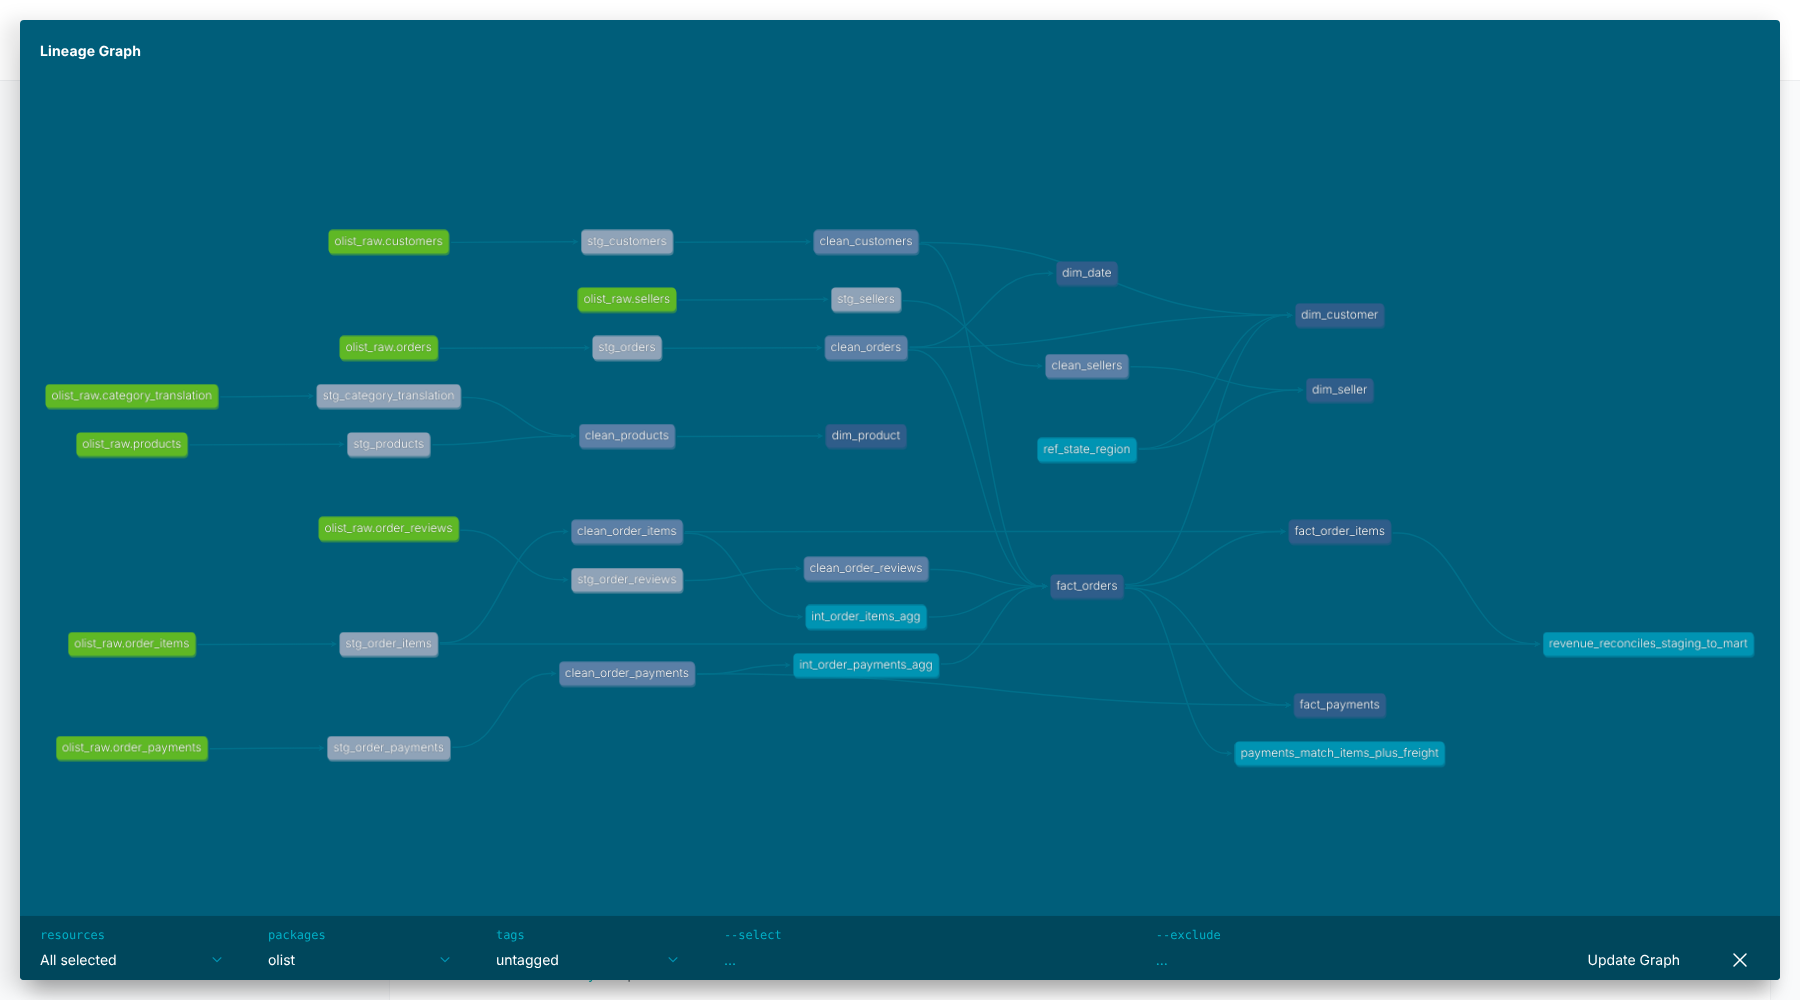
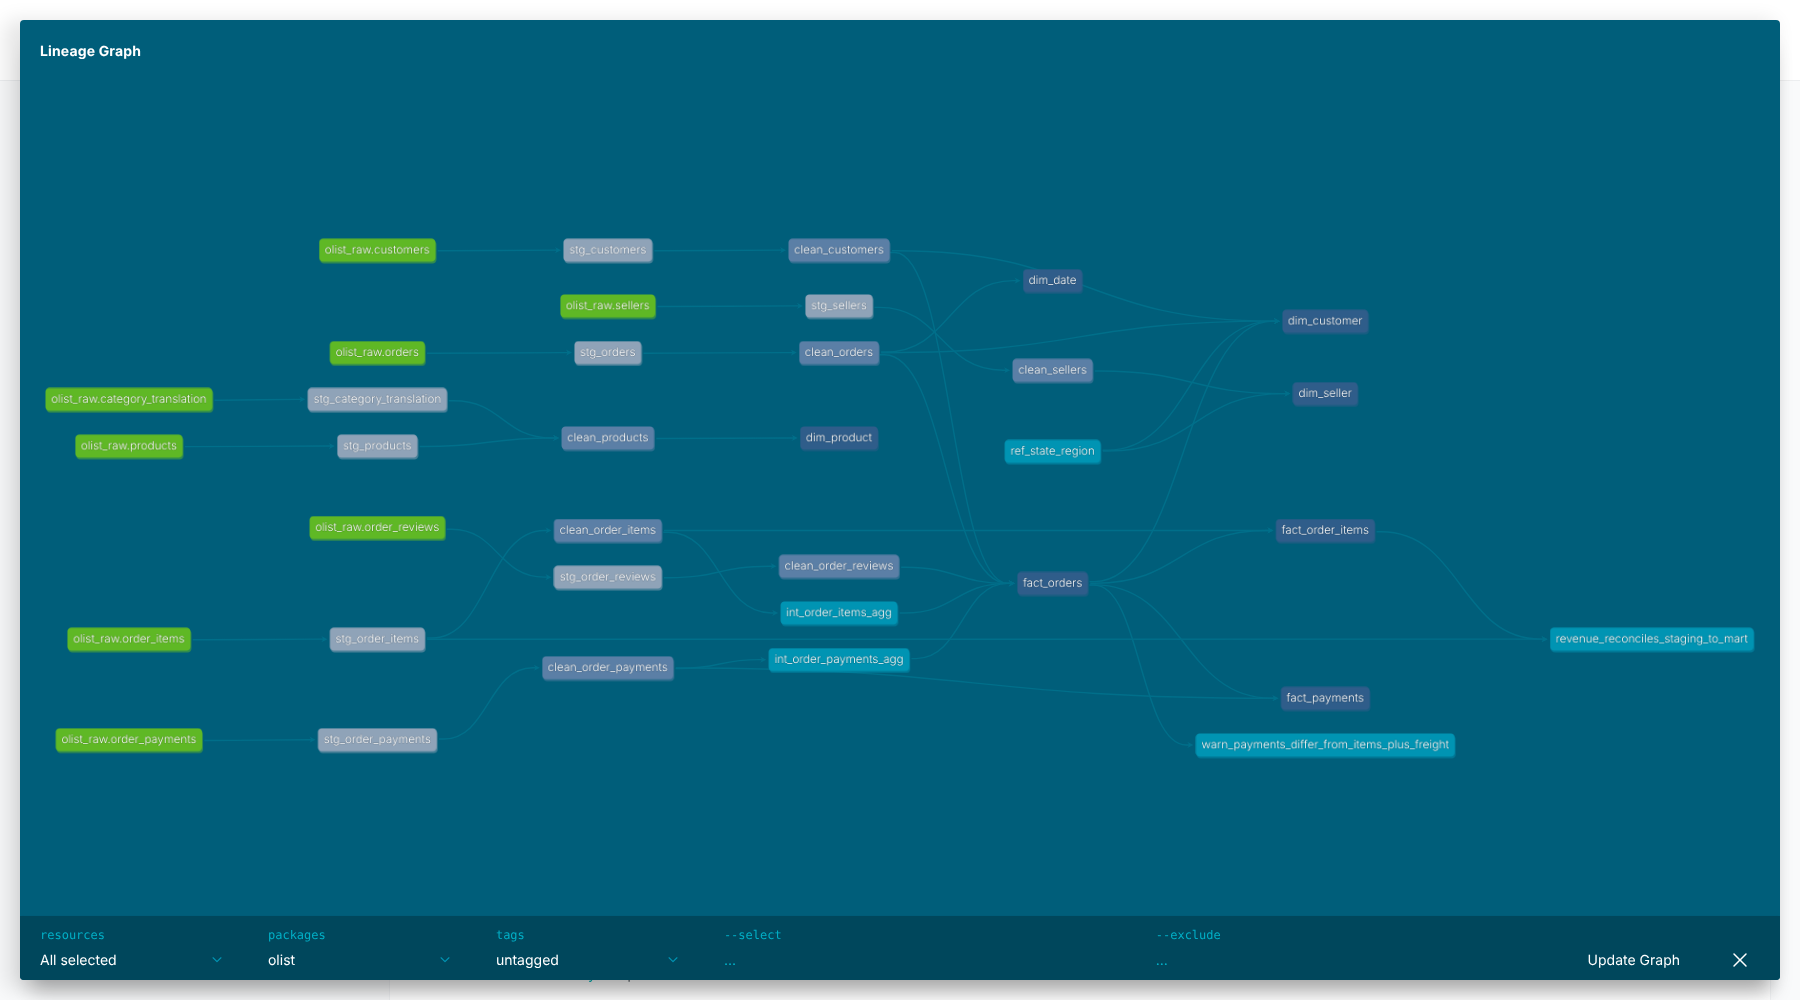
Update README for dbt, impact study, forecast, memo and CI with real results

diff --git a/README.md b/README.md
@@ -1,22 +1,23 @@
-# SQL Business Analytics: Olist e-commerce star schema, KPI report and dashboard
+# SQL Business Analytics: Olist e-commerce on dbt + DuckDB, KPI report, impact study and forecast
 
-A DuckDB star schema built from raw marketplace data with layered SQL (staging, clean, mart).
-SQL data-quality tests run on it, 15 analytical queries answer business questions, and a KPI
-report, a Streamlit dashboard and a Power BI build guide sit on top of the same model.
+A dbt project (dbt-core + dbt-duckdb) turns raw marketplace CSVs into a tested star schema.
+15 analytical SQL queries, a KPI report, a Streamlit dashboard and a Power BI guide sit on top of it,
+plus two analyses that go beyond descriptive reporting (the effect of late delivery on review score,
+and a backtested weekly demand forecast) and a one-page memo for a non-technical manager.
 
 ![Dashboard](reports/figures/dashboard_screenshot.png)
 
+**Start here:** [stakeholder memo](reports/STAKEHOLDER_MEMO.md) (one page) |
+[impact study and forecast](reports/ANALYSIS_DELAY_AND_FORECAST.md) |
+[executive KPI summary](reports/EXECUTIVE_SUMMARY.md) | [query catalogue](docs/QUERIES.md) |
+[data-quality tests](reports/data_quality.md)
+
 ## Business problem
 
-A marketplace management team wants a monthly view of the business. They need to know where
-revenue comes from, whether growth is healthy, whether customers come back, and what drives bad
-reviews. In practice that is the daily work of a reporting / BI analyst:
-
-1. turn transactional tables into a **clean, documented and tested data model**;
-2. answer recurring business questions with **reproducible SQL** (growth, retention, segmentation,
-   service levels, concentration);
-3. publish the KPIs in a **report and an interactive dashboard**, with definitions that the
-   finance and operations teams can reconcile.
+A marketplace management team wants to know where revenue comes from, whether growth is healthy,
+whether customers come back, what drives bad reviews and how many orders to plan for. That is the
+work of a reporting / BI analyst: a **tested, documented data model**, **reproducible SQL**, a
+**report and dashboard** with reconcilable definitions, and **analysis a manager can act on**.
 
 ## Data
 
@@ -35,15 +36,25 @@ translation. The geolocation table is not used.
 
 ## Approach
 
-### 1. Layered ETL in SQL (`sql/`)
+### 1. Layered ETL as a dbt project (`olist_dbt/`)
 
-| Layer | File | What it does |
+dbt-duckdb installs from PyPI and works here, so the plain-SQL ETL was ported to dbt and removed.
+The dbt-built mart is identical, row for row, to the previous SQL build (all 7 tables compared).
+
+| Layer | dbt models | What it does |
 |---|---|---|
-| Staging | `sql/staging/01_staging.sql` | One typed table per CSV with explicit column types (zip codes kept as text, money as `DECIMAL`) |
-| Clean | `sql/clean/02_clean.sql` | Trims and normalises text, deduplicates on business keys with `QUALIFY ROW_NUMBER()`, keeps only the latest review per order, translates categories (and fills 2 missing translations), maps states to IBGE macro-regions |
-| Mart | `sql/mart/03_mart.sql` | Star schema: `fact_orders` (order grain), `fact_order_items` (line grain), `fact_payments`, and `dim_date`, `dim_customer`, `dim_product`, `dim_seller` |
+| Sources | `models/staging/_sources.yml` | The 8 CSVs, read in place by DuckDB (`read_csv`, all text). Path set by the `raw_dir` var |
+| Staging | `stg_*` (8) | Explicit cast of every column (zip codes kept as text, money as `DECIMAL(12,2)`) |
+| Clean | `clean_*` (7) + seed `ref_state_region` | Trims and normalises text, deduplicates on business keys with `QUALIFY ROW_NUMBER()`, keeps the latest review per order, translates categories (2 missing translations filled), maps states to IBGE macro-regions |
+| Intermediate | `int_order_*_agg` (ephemeral) | Order totals from items and payments |
+| Mart | `fact_orders`, `fact_order_items`, `fact_payments`, `dim_date`, `dim_customer`, `dim_product`, `dim_seller` | Star schema with the business rules |
 
-The ETL is written in SQL and Python only runs the files in order (`src/build_db.py`).
+`python -m src.pipeline` calls `dbt build` through dbt's Python API (`src/dbt_runner.py`), so models
+and tests run in DAG order and a failing error-level test stops everything downstream of it.
+`make docs` runs `dbt docs generate` and screenshots the lineage graph with Playwright:
+
+![dbt lineage](reports/figures/dbt_lineage.png)
+
 Design choices:
 
 - **Customer = `customer_unique_id`, not `customer_id`.** Olist issues a new `customer_id` for every order.
@@ -56,19 +67,22 @@ Design choices:
   Every query, the dashboard and the Power BI measures reuse these columns.
 - **Revenue = item price, freight excluded** (merchandise revenue in BRL). Freight is reported separately.
 
-### 2. Data-quality tests in SQL (`sql/checks/data_quality.sql`)
+### 2. Data-quality tests in dbt
 
-There are 31 checks. Each one returns the number of failing rows. They cover row-count and
-revenue reconciliation from staging to mart, primary-key uniqueness, not-null keys, referential
-integrity from facts to dimensions, value ranges and domains, plus known source issues logged as
-warnings. The pipeline stops if an `error`-level check fails. Result on the full data
-([full table](reports/data_quality.md)): **24 pass, 7 warnings, 0 errors**.
+There are 52 dbt tests: built-in generic tests (`unique`, `not_null`, `relationships`,
+`accepted_values`), three custom generic tests written for this project (`unique_combination`
+for composite keys, `equal_row_count` for staging-to-mart reconciliation, `expression_is_true`
+for ranges and rules) and singular tests (revenue reconciled to the cent). Known source issues are
+tests with `severity: warn`, so they are reported but do not block the build.
+`src/quality.py` turns dbt's `run_results.json` into [reports/data_quality.md](reports/data_quality.md).
+Result on the full data: **45 pass, 7 warnings, 0 errors**.
 
 | Known source issue (warning) | Rows | Treatment |
 |---|---:|---|
 | Orders without any item line | 775 | not a valid sale (mostly `unavailable`/`canceled`) |
-| Orders with more than one review | 547 | latest answered review kept |
+| Valid-sale orders without a review | 732 | excluded from review KPIs |
 | Products without category | 610 | category `unknown`, kept in totals |
+| Orders with more than one review | 547 | latest answered review kept |
 | Payments differ from items + freight by > 1 BRL | 312 | payments not used for revenue |
 | Handed to carrier before purchase timestamp | 166 | left as is; only affects the seller late-shipping flag |
 | Delivered status without delivery timestamp | 8 | counted as not delivered in SLA KPIs |
@@ -98,7 +112,22 @@ always the real output.
 | 14 | Daily revenue anomaly flags | trailing 28-day mean/sd excluding the current day, z-score |
 | 15 | Seller late-shipping scorecard | seller KPIs, volume-weighted averages |
 
-### 4. Reporting layer
+### 4. Beyond descriptive: impact study and forecast (`src/causal.py`, `src/forecast.py`)
+
+- **Effect of a late delivery on the review score.** Late orders are not a random sample (more
+  Northeast, more Black Friday, different sellers), so the raw gap is compared with three adjusted
+  estimates: OLS with pre-purchase controls (basket, freight, promised lead time, payment, customer
+  and seller state, category, month), the same with **seller fixed effects** (late vs on-time
+  parcels of the same seller, by within-seller demeaning), and **coarsened exact matching** (ATT).
+  Standard errors are clustered by seller. Lead time is not a control: it is how the delay
+  happens. The study is observational and says so.
+- **Weekly demand forecast.** Naive, 4-week mean, drift, SES and damped-trend ETS, scored by a
+  rolling-origin backtest (26 origins x 1-4 weeks ahead, refit at each origin on past data only).
+  The 80% interval of the forward forecast comes from the empirical backtest errors.
+- Both run on the full data in the pipeline. The estimators are unit-tested on seeded synthetic data
+  with a known effect (seller fixed effects must recover it, the raw gap must not).
+
+### 5. Reporting layer
 
 - `src/report.py` uses pandas and matplotlib to build six charts and an
   [executive summary](reports/EXECUTIVE_SUMMARY.md). The summary text is filled from the query
@@ -106,6 +135,8 @@ always the real output.
 - `app.py` is a **Streamlit dashboard** that reads DuckDB directly, with filters for month range,
   region and category. Its parameterised SQL lives in `src/dashboard.py` and is unit-tested.
   `scripts/screenshot_dashboard.py` captures it headless with Playwright (screenshot above).
+- `src/memo.py` writes the [stakeholder memo](reports/STAKEHOLDER_MEMO.md): 3 findings and 3
+  recommendations in plain language, every number filled from the results.
 - `powerbi/POWERBI_GUIDE.md` is a step-by-step guide to rebuild the same model in Power BI Desktop:
   import, relationships, 15 DAX measures, page layout, and a reconciliation table generated from SQL
   ([reports/powerbi_validation.md](reports/powerbi_validation.md)). `python -m src.export_powerbi`
@@ -139,8 +170,6 @@ Orders 4-7 days late average 2.10, with 68% of their reviews at 1-2 stars. Late 
 reviewed deliveries but **32.6% of all negative reviews** (query 06). On-time delivery ranges from
 95.9% (PR) to 78.5% (AL), and 8 of the 9 worst states are in the Northeast (query 07).
 
-![Delivery delay vs review](reports/figures/03_delivery_delay_vs_review.png)
-
 **3. Customers rarely come back.** In every monthly cohort fewer than 1% of new customers buy again in
 any later month (query 03). 12-month revenue per new customer is BRL 131-162, and only 3-5% of it
 comes from repeat orders (query 05). In the RFM segmentation, "At risk, high-value" customers
@@ -160,26 +189,73 @@ average a review of 3.78, against 4.15 for sellers late on less than 5% (query 1
 - Northeast customers spend more per order (BRL 165 vs 131 in the Southeast) but wait 20.0 vs 10.7 days (query 13).
 - The anomaly detector flags 7 spike days. Black Friday 2017-11-24 is 6.3 times the trailing 28-day mean (query 14).
 
+**6. A late delivery costs about 2 stars, even comparing like with like** ([full study](reports/ANALYSIS_DELAY_AND_FORECAST.md)).
+95,560 delivered and reviewed orders, 6.7% of them late. Effect of being late:
+
+| Method | Review score (stars) | Negative review (1-2 stars), pp |
+|---|---:|---:|
+| 1. Raw difference | -2.02 [-2.07, -1.97] | +53.2 [51.8, 54.5] |
+| 2. OLS + controls | -1.98 [-2.03, -1.93] | +52.6 [51.2, 54.0] |
+| 3. OLS + controls + seller fixed effects | -1.94 [-1.99, -1.89] | +51.7 [50.3, 53.1] |
+| 4. Coarsened exact matching (ATT, 84.6% of late orders matched) | -1.97 [-2.03, -1.91] | +52.2 [50.6, 53.7] |
+
+95% CIs, seller-clustered. The adjustments move the gap by less than 0.1 star, so the observed
+differences between late and on-time orders explain little of it. The effect grows with the delay
+(-0.84 stars at 1-3 days late, -2.42 at 8-14 days). 83.6% of late orders were reviewed *before*
+the parcel arrived (3.1% of the others), because the survey goes out at the promised date.
+
+![Delay effect](reports/figures/07_delay_effect_on_review.png)
+
+**7. Weekly demand is on a plateau; a 4-week mean beats the naive forecast by 13%.** Rolling-origin
+backtest, 26 origins x 1-4 weeks ahead, MAE in orders per week:
+
+| Model | MAE | MAPE % | MAE vs naive | MAE h=1 | MAE h=4 |
+|---|---:|---:|---:|---:|---:|
+| 4-week mean | 232 | 16.5 | 0.87 | 193 | 263 |
+| Naive (last week); SES and damped ETS are identical to 1 decimal of MAPE | 268 | 19.2 | 1.00 | 170 | 324 |
+| Drift | 269 | 19.7 | 1.00 | 172 | 329 |
+
+The ETS models estimate a level smoothing weight of 1.00 (the 2017 ramp-up looks like permanent
+level shifts), so they reduce to the naive forecast. Naive is still best one week ahead.
+Forecast for the 4 weeks after 13 Aug 2018: 1,869 orders/week, 80% empirical interval 1,415 to
+2,491 (not checkable: the extract ends).
+
+![Forecast](reports/figures/08_weekly_orders_forecast.png)
+
 ## Key takeaways, limitations, next steps
 
-**Takeaways.** At this stage, growth comes from acquisition. The quickest levers suggested by the
-data are delivery reliability (especially the Northeast and late-shipping sellers) and reactivating
-high-value one-time buyers. Both should be measured with controlled experiments before any causal claim.
+**Takeaways.** At this stage, growth comes from acquisition. The quickest lever suggested by the
+data is delivery reliability (especially the Northeast and late-shipping sellers): the review
+penalty of a late order is stable across four specifications. Reactivating high-value one-time
+buyers is the second lever. Both should be confirmed with controlled experiments
+(see the [memo](reports/STAKEHOLDER_MEMO.md)).
 
 **Limitations.**
 - The data is an anonymised public sample, not the full Olist business. Revenue is merchandise
   value, not company revenue: there is no commission, margin or cost data, so CLV here means
   revenue, not profit.
-- The link between delivery delay and review score is an association. Late orders may differ in
-  other ways too (region, category, seller).
+- The delay study is observational. It adjusts for observed differences (region, season, basket,
+  category, seller), not for unobserved ones (fragile goods, a bad carrier route). Only reviewed
+  orders enter it, and unreviewed delivered orders are late more often (23.8% vs 6.7%).
+- The public extract fades out after 22 Aug 2018 (daily orders drop from about 250 to under 100),
+  so August 2018 and the Jan-Aug 2018 totals are slightly understated. The forecast series stops at
+  the week of 13 Aug 2018 for that reason.
+- The forecast has one partial year of history: no yearly seasonality, no promotion calendar.
 - On-time rates for the last months are measured only on orders already delivered when the data was
   extracted. Orders still in transit (mostly late ones) are missing, which may flatter August 2018.
 - The RFM thresholds and segment names are analyst choices. Frequency is almost always 1, so it is scored by rule, not by quintile.
 - The Power BI report itself has not been built or checked here. Only the guide and the reconciliation targets exist.
 
-**Next steps.** Add incremental loading (partition by purchase month), schedule the checks
-(e.g. dbt tests or a CI job), add a seller-level SLA alert, and build and reconcile the Power BI
-version against `reports/powerbi_validation.md`.
+**Next steps.** Incremental dbt models (partition by purchase month), source freshness checks,
+a seller-level SLA alert, a randomised test of the delivery promise, and building and reconciling the
+Power BI version against `reports/powerbi_validation.md`.
+
+## Continuous integration
+
+`.github/workflows/ci.yml` installs `requirements.txt` on Python 3.13, runs `dbt parse` and then
+`pytest`, which builds the whole dbt project on the committed fixture and runs all dbt and Python
+tests. No data download is needed. The workflow has not run on GitHub yet (the repository is not
+pushed); the same steps were run locally in a fresh virtual environment and pass.
 
 ## How to run
 
@@ -190,41 +266,40 @@ python -m playwright install chromium   # only needed for the dashboard screensh
 make all          # = download data, run the pipeline, run the tests
 # or step by step:
 python data/download_data.py            # ~64 MB into data/raw/
-python -m src.pipeline                  # DuckDB build -> DQ checks -> 15 queries -> charts + summary
-python -m pytest                        # 24 tests on a hand-made fixture (no download needed)
+python -m src.pipeline                  # dbt build (ETL + 52 tests) -> 15 queries -> charts, summary
+                                        # -> delay study + forecast -> stakeholder memo
+python -m pytest                        # 29 tests on a hand-made fixture (no download needed)
+make docs                               # dbt docs site + lineage screenshot
 streamlit run app.py                    # interactive dashboard on http://localhost:8501
 python -m src.export_powerbi            # mart tables as CSV for Power BI (powerbi/data/)
 ```
 
-Runtime in the build environment (2 CPUs): the pipeline takes about 20 s, the tests about 7 s, and
-the dashboard screenshot about 15 s.
+Runtime in the build environment (2 CPUs, shared with other jobs): the pipeline takes 99-110 s
+(dbt build about 40 s, delay study and forecast about 40 s), `make docs` 15 s, the tests 20-60 s.
 
 ## Project structure
 
 ```
 sql-business-analytics/
-├── app.py                     Streamlit dashboard (reads data/olist.duckdb)
-├── data/download_data.py      downloads the Olist CSVs into data/raw/ (git-ignored)
-├── sql/
-│   ├── staging/               01 typed copies of the CSVs
-│   ├── clean/                 02 standardisation and deduplication rules
-│   ├── mart/                  03 star schema (facts + dimensions, business rules)
-│   ├── checks/                data-quality checks (error / warn)
-│   ├── analysis/              15 analytical queries with business question + insight
-│   └── report/                helper queries for charts and Power BI reconciliation
+├── olist_dbt/                 dbt project: models/{staging,clean,intermediate,marts}, seeds/, tests/
+├── sql/analysis/              15 analytical queries with business question + insight
+├── sql/analytics/, sql/report/  datasets for the delay study / forecast, chart + Power BI helpers
 ├── src/
-│   ├── build_db.py            runs the ETL SQL in order
-│   ├── quality.py             runs checks, fails on errors
-│   ├── queries.py             runs analysis SQL, writes CSVs and docs/QUERIES.md
-│   ├── report.py              matplotlib charts + executive summary
-│   ├── dashboard.py           parameterised SQL for the dashboard
-│   ├── export_powerbi.py      mart -> CSV
-│   └── pipeline.py            single entry point
-├── tests/                     pytest + hand-made CSV fixture (24 tests)
-├── reports/                   figures, EXECUTIVE_SUMMARY.md, data_quality.md, query_results/
+│   ├── dbt_runner.py, build_db.py, quality.py   dbt build, DuckDB file, dbt test results
+│   ├── queries.py, report.py                    queries -> CSVs, QUERIES.md, charts, summary
+│   ├── causal.py, forecast.py, insights.py      delay study, forecast + backtest, their report
+│   ├── memo.py                                  stakeholder memo
+│   ├── dashboard.py, export_powerbi.py          dashboard SQL, mart -> CSV
+│   └── pipeline.py                              single entry point
+├── app.py                     Streamlit dashboard (reads data/olist.duckdb)
+├── scripts/                   Playwright screenshots (dashboard, dbt lineage)
+├── tests/                     pytest + hand-made CSV fixture (29 tests)
+├── reports/                   memo, analyses, summary, data_quality.md, figures/, result CSVs
 ├── docs/QUERIES.md            generated query catalogue (SQL + real result + insight)
 ├── powerbi/POWERBI_GUIDE.md   how to rebuild the dashboard in Power BI Desktop
-├── Makefile, requirements.txt, LICENSE
+├── data/download_data.py      downloads the Olist CSVs into data/raw/ (git-ignored)
+├── .github/workflows/ci.yml   CI: dbt parse + pytest on the fixture
+└── Makefile, requirements.txt, LICENSE
 ```
 
 ## Licence

diff --git a/reports/data_quality.md b/reports/data_quality.md
@@ -8,7 +8,7 @@ Generated by `python -m src.pipeline` from dbt's `run_results.json` (tests defin
 | warn_orders_without_item_line | fact_orders | completeness | warn | 775 | WARN |
 | warn_products_without_category | dim_product | completeness | warn | 610 | WARN |
 | warn_valid_sale_without_review | fact_orders | completeness | warn | 732 | WARN |
-| payments_match_items_plus_freight | fact_orders | consistency | warn | 312 | WARN |
+| warn_payments_differ_from_items_plus_freight | fact_orders | consistency | warn | 312 | WARN |
 | warn_stg_order_reviews_more_than_one_review_per_order | stg_order_reviews | duplicates | warn | 547 | WARN |
 | warn_handed_to_carrier_before_purchase | fact_orders | validity | warn | 166 | WARN |
 | pk_fact_order_items | fact_order_items | duplicates | error | 0 | PASS |
